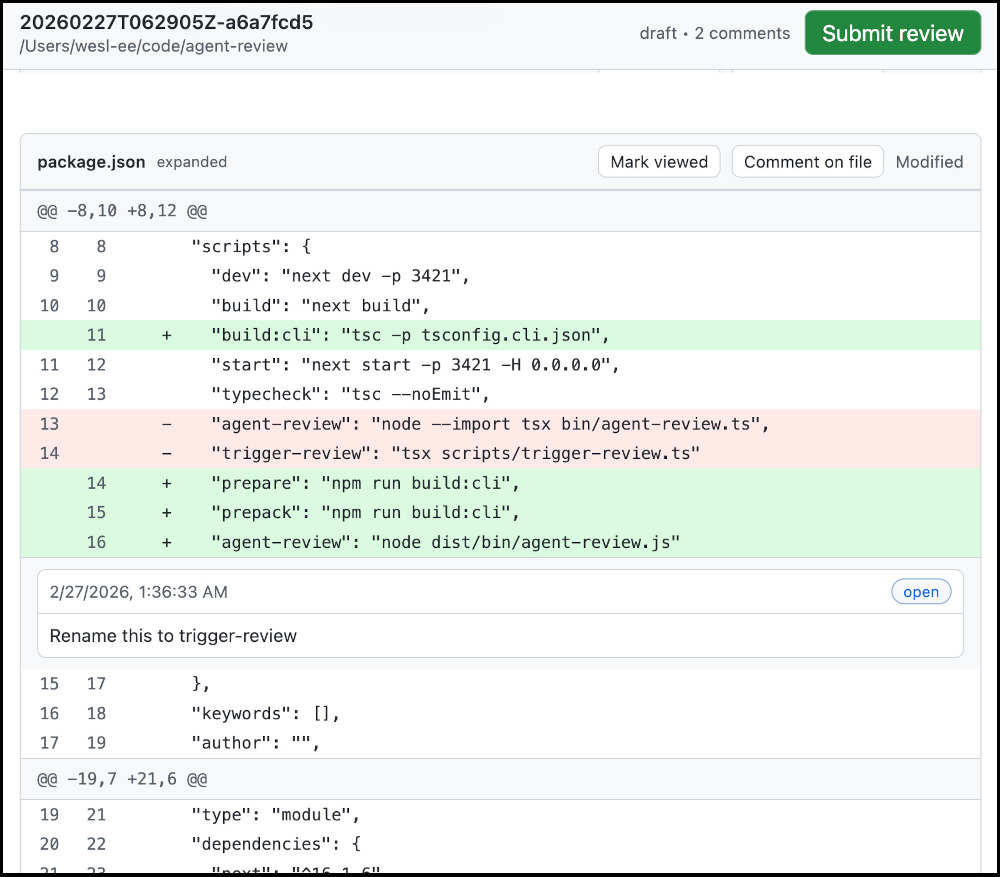
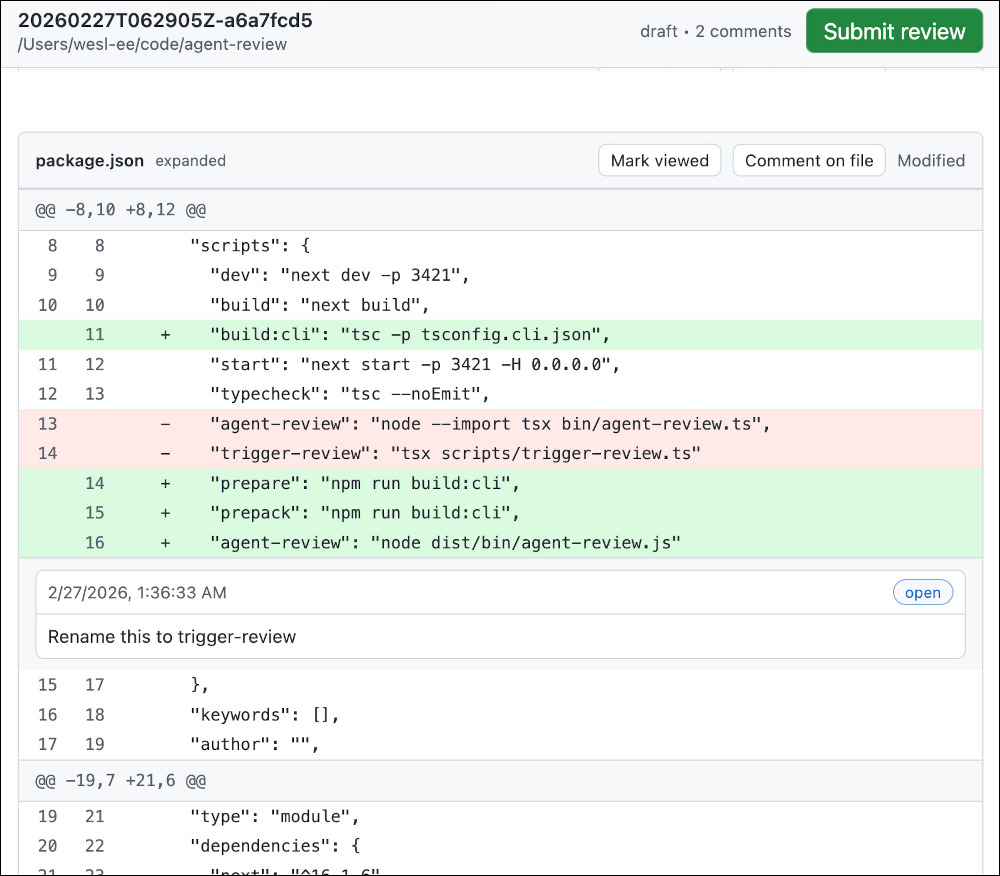
README sentence fragment lol

diff --git a/README.md b/README.md
@@ -1,8 +1,9 @@
 agent-review
 ============
 
-Locally review code produced by a coding agent before committing upstream.
-Enables human-in-the-loop iteration over agent-produced code with 
+Locally review code from a coding agent before committing upstream. Enables
+infinite **human-in-the-loop** iteration over agent-produced code for better
+code overall :)
 
 ![agent-review ui](./img/readme-1.jpeg)
 
